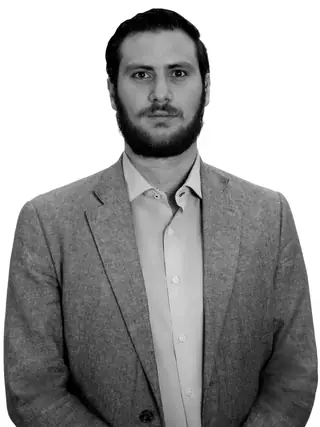
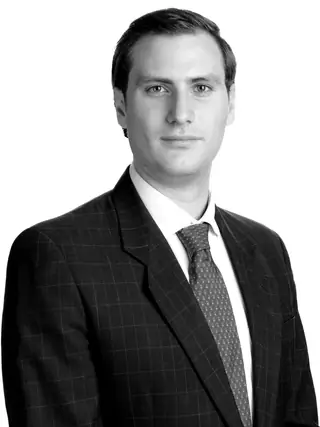
Refresh Bernardo Zatarain portrait

diff --git a/server/mirror/htmlPipeline.ts b/server/mirror/htmlPipeline.ts
@@ -460,14 +460,17 @@ function uploadedResponsiveVariants(source: string): Array<{ url: string; width:
  * durante `media:optimize`; nunca se transforma una URL arbitraria en runtime.
  */
 function attorneyPortraitResponsiveVariants(source: string): Array<{ url: string; width: number }> {
-  const match = source.match(/^\/(partner_photos|associate_photos|of_counsel_photos|counsel_photos)\/([A-Za-z0-9._-]+)$/);
+  const parts = source.match(/^([^?#]+)([?#].*)?$/);
+  const pathname = parts?.[1] || source;
+  const cacheBuster = parts?.[2] || "";
+  const match = pathname.match(/^\/(partner_photos|associate_photos|of_counsel_photos|counsel_photos)\/([A-Za-z0-9._-]+)$/);
   if (!match) return [];
   const [, group, filename] = match;
   const parsed = path.posix.parse(filename);
   return [320, 640].flatMap((width) => {
     const relative = path.join("public", "optimized-attorney-photos", group, `${parsed.name}-${width}.webp`);
     return fs.existsSync(path.join(process.cwd(), relative))
-      ? [{ url: `/optimized-attorney-photos/${group}/${parsed.name}-${width}.webp`, width }]
+      ? [{ url: `/optimized-attorney-photos/${group}/${parsed.name}-${width}.webp${cacheBuster}`, width }]
       : [];
   });
 }
@@ -479,7 +482,7 @@ export function optimizePublicImageTags(html: string): string {
     const manifestEntry = responsiveImageManifest[cleanSource];
     const variants = manifestEntry?.variants?.length
       ? manifestEntry.variants
-      : [...uploadedResponsiveVariants(cleanSource), ...attorneyPortraitResponsiveVariants(cleanSource)];
+      : [...uploadedResponsiveVariants(cleanSource), ...attorneyPortraitResponsiveVariants(source)];
     const critical = /(?:logo|vonwobeser|vw40|vw2025|vw_2025)/i.test(source);
     const displaySize = /\bhome__rec--item\b/i.test(tag)
       ? "156px"
